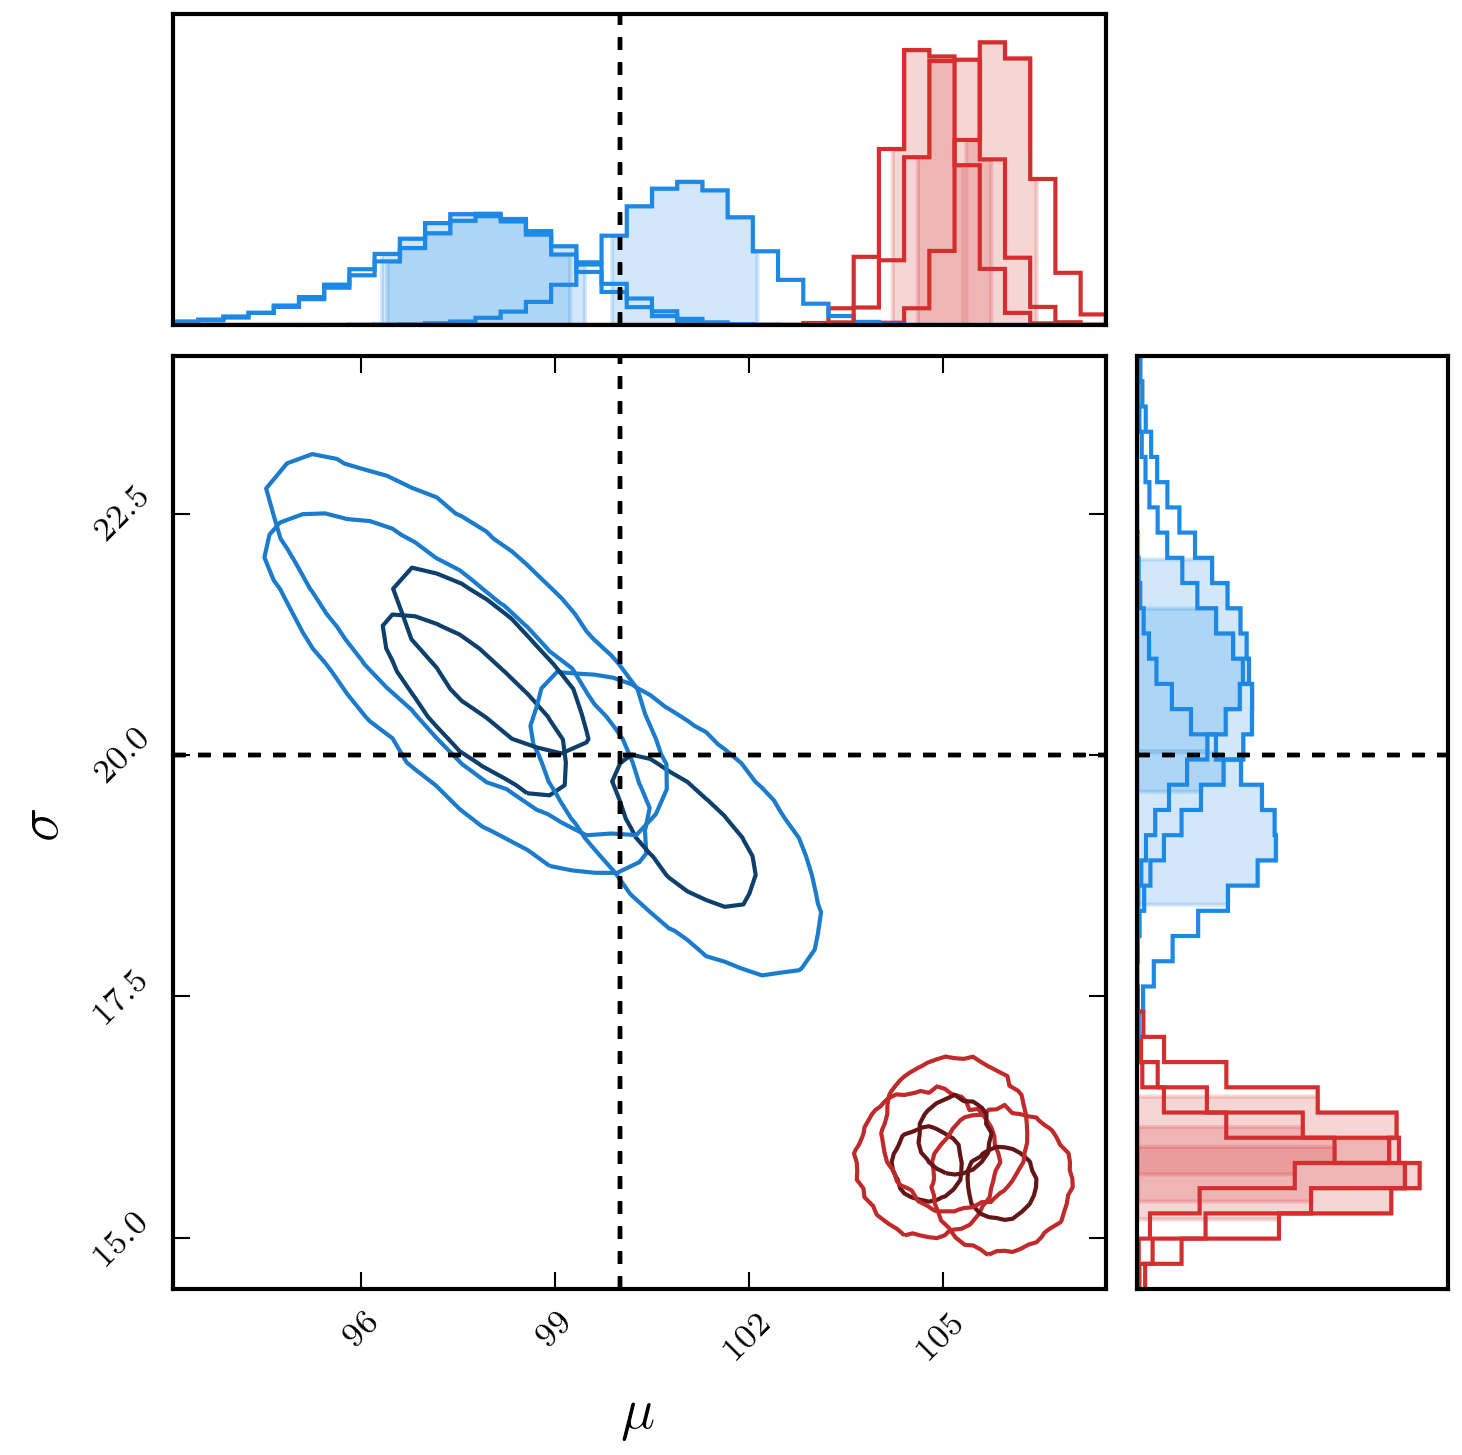
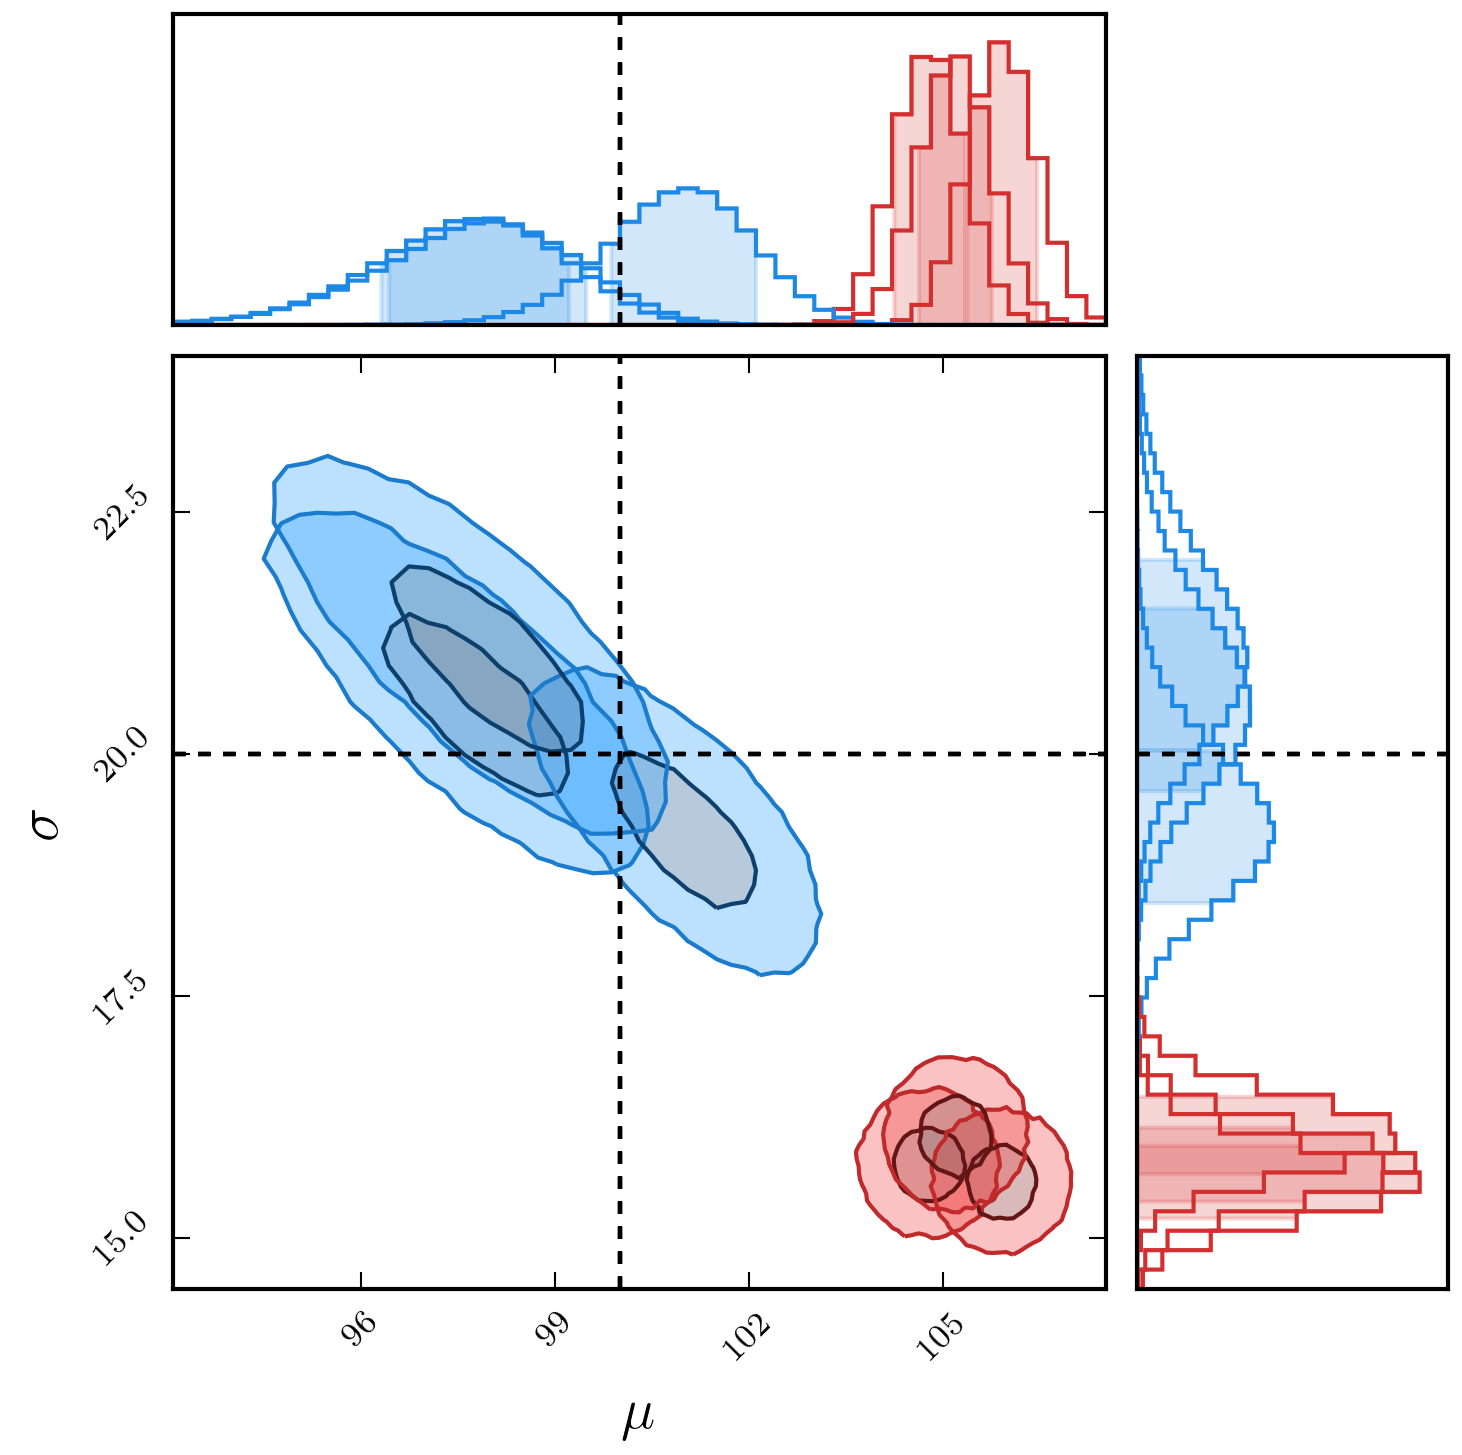
For Alex

diff --git a/dessn/samplers/MetropolisHastings.py b/dessn/samplers/MetropolisHastings.py
@@ -1,0 +1,218 @@
+from dessn.samplers.GenericSampler import Sampler
+import os
+import numpy as np
+from time import time
+import logging
+
+class MetropolisHastings(Sampler):
+    """ Self tuning Metropolis Hastings Sampler
+
+    Parameters
+    ----------
+    log_posterior : function
+        A function that, when given an array of parameters, returns the log posterior of the model.
+    start : function/list[numbers]/np.ndarray
+        The starting position. Either a list/array of numbers, of a function that
+        returns one
+    uid : str, optional
+        A UID string used when saving results. Useful if you want to run many samplers
+        in the same temp directory.
+    num_burn : int, optional
+        The number of burn in steps. TODO: Tune this automatically
+    num_steps : int, optional
+        The number of steps to take after burn in. TODO: Tune this automatically
+    sigma_adjust : int, optional
+        During the burn in, how many steps between adjustment to the step size
+    covariance_adjust : int, optional
+        During the burn in, how many steps between adjustment to the parameter covariance.
+    temp_dir : str, optional
+        The location of a folder to save the results, such as the last position and chain
+    save_dims : int, optional
+        If given, the final chain will contain only the first ``save_dim`` parameters.
+        Useful for discarding many nuisance parameters that would bloat the size of the chain.
+    desiredAcceptRatio : float, optional
+        The desired acceptance ratio
+    """
+    def __init__(self, log_posterior, start, uid="mh", num_burn=10000, num_steps=10000, sigma_adjust=50,
+                 covariance_adjust=1000, temp_dir=None, save_dims=None, save_interval=300,
+                 accept_ratio=0.4):
+        super().__init__(temp_dir)
+        self.logger = logging.getLogger(__name__)
+        self.log_posterior = log_posterior
+        self.start = start
+        self.num_burn = num_burn
+        self.num_steps = num_steps
+        self.sigma_adjust = sigma_adjust
+        self.covariance_adjust = covariance_adjust
+        self.save_dims = save_dims
+        self.save_interval = save_interval
+        self.accept_ratio = accept_ratio
+        self._do_save = temp_dir is not None and save_interval is not None
+        self.space = 3  # log posterior, sigma, weight
+        self.IND_P = 0
+        self.IND_S = 1
+        self.IND_W = 2
+
+        if temp_dir is None:
+            self.position_file = None
+            self.burn_file = None
+            self.chain_file = None
+            self.covariance_file = None
+            self.sigma_file = None
+        else:
+            self.position_file = temp_dir + os.sep + "position_%s.npy" % uid
+            self.burn_file = temp_dir + os.sep + "burn_%s.npy" % uid
+            self.chain_file = temp_dir + os.sep + "chain_%s.npy" % uid
+            self.covariance_file = temp_dir + os.sep + "covariance_%s.npy" % uid
+            self.sigma_file = temp_dir + os.sep + "sigma_%s.npy" % uid
+
+    def get_chain(self):
+        pass
+
+    def fit(self):
+        """ Runs the fit """
+        position, burnin, chain, covariance, sigma = self._load()
+        position = self._ensure_position(position)
+        sigma = self._ensure_sigma(sigma, position)
+
+        if chain is not None:
+            self._do_chain(position, sigma, covariance, chain=chain)
+        else:
+            position, covariance = self._do_burnin(position, burnin, sigma, covariance)
+            self._do_chain(position, covariance)
+
+    def _do_chain(self, position, sigma, covariance, chain=None):
+        dims = self.save_dims if self.save_dims is not None else position.size - self.space
+        size = dims + self.space
+        if chain is None:
+            chain = np.zeros((size, self.num_steps))
+            chain[:, 0] = position[:size]
+
+        current_step = np.where(chain[self.IND_S, :] == 0)[0][0]
+
+        last_save_time = time()
+
+        while current_step < self.num_steps:
+            position, weight = self._get_next_step(position, sigma, covariance)
+            chain[self.IND_W, current_step - 1] += 1
+            chain[:, current_step] = position[:size]
+            current_step += 1
+            if current_step == self.num_steps or \
+                    (self._do_save and time() - last_save_time > self.save_interval):
+                self._save(position, None, chain[:, :current_step], None)
+
+
+    def _do_burnin(self, position, burnin, sigma, covariance):
+
+        if burnin is None:
+            # Initialise burning to all zeros. 2 from posterior and step size
+            burnin = np.zeros((2 + position.size, self.num_burn))
+        elif burnin.shape[1] < self.num_burn:
+            # If we only saved part of the burnin to save size, add the rest in as zeros
+            burnin = np.vstack((burnin,
+                                np.zeros((2 + position.size, self.num_burn - burnin.shape[1]))))
+
+        if covariance is None:
+            covariance = np.identity(position.size)
+
+        current_step = np.where(burnin[self.IND_S, :] == 0)[0][0]
+
+        last_save_time = time()
+
+        while current_step < self.num_burn:
+            # If sigma adjust, adjust
+            if current_step % self.sigma_adjust == 0:
+                burnin[self.IND_S, current_step] = self._adjust_sigma_ratio(burnin, current_step)
+            # If covariance adjust, adjust
+            if current_step % self.covariance_adjust == 0:
+                sigma, covariance = self._adjust_covariance(burnin, current_step)
+
+            # Get next step
+            burnin[:, current_step] = self._get_next_step(position, sigma, covariance)
+
+            current_step += 1
+
+            if current_step == self.num_burn or \
+                    (self._do_save and time() - last_save_time > self.save_interval):
+                self._save(burnin[:, -1], burnin[:, :current_step], None, covariance, sigma)
+                last_save_time = time()
+
+        return burnin[:, -1], covariance
+
+    def _ensure_position(self, position):
+        """ Ensures that the position object, which can be none from loading, is a
+        valid [starting] position.
+        """
+        if position is None:
+            if callable(self.start):
+                position = self.start()
+            else:
+                position = self.start
+            if type(position) == list:
+                position = np.array(position)
+            position = np.concatenate(([-np.inf, 1], position))
+            # Starting log posterior is infinitely unlikely, sigma size of 1 to begin with
+        return position
+
+    def _ensure_sigma(self, sigma, position):
+        if sigma is None:
+            return np.ones(self.position.size - self.space)
+
+    def _adjust_sigma_ratio(self, burnin, index):
+        subsection = burnin[index - self.sigma_adjust:index]
+        actual_ratio = 1 / np.average(subsection[self.IND_W, :])
+
+        sigma_ratio = burnin[self.IND_S, -1]
+        if actual_ratio < self.accept_ratio:
+            sigma_ratio *= 0.9  # TODO: Improve for high dimensionality
+        else:
+            sigma_ratio *= 0.9
+        self.logger.debug("Adjusting sigma: Want %0.2f, got %0.2f. "
+                          "Updating ratio to %0.3f" % (self.accept_ratio, actual_ratio, sigma_ratio))
+        burnin[self.IND_S, index - 1] = sigma_ratio
+
+    def _adjust_covariance(self, burnin, index):
+        subset = burnin[:, int(np.floor(index/2)):index]
+        covariance = np.cov(subset[self.space + 1:, :], fweights=subset[self.IND_W, :])
+        evals, evecs = np.linalg.eig(covariance)
+        sigma = np.sqrt(np.abs(evals)) * 2.3 / np.sqrt(evals.size)
+        burnin[self.IND_S, index - 1] = 0.5
+        return sigma, evecs
+
+    def _propose_point(self, position, sigma, covariance):
+        rotated_params = np.dot(position[self.space + 1], covariance)
+        new = rotated_params + sigma * position
+
+    def _get_next_step(self, position, sigma, covariance):
+        pass
+
+    def _load(self):
+        position = None
+        if os.path.exists(self.position_file):
+            position = np.load(position)
+        burnin = None
+        if os.path.exists(self.burn_file):
+            burnin = np.load(self.burn_file)
+        chain = None
+        if os.path.exists(self.chain_file):
+            chain = np.load(self.chain_file)
+        covariance = None
+        if os.path.exists(self.covariance_file):
+            covariance = np.load(self.covariance_file)
+        if os.path.exists(self.sigma_file):
+            sigma = np.load(self.sigma_file)
+
+        return position, burnin, chain, covariance, sigma
+
+    def _save(self, position, burnin, chain, covariance, sigma):
+        if position is not None:
+            np.save(self.position_file, position)
+        if burnin is not None:
+            np.save(self.burn_file, burnin)
+        if chain is not None:
+            np.save(self.chain_file, chain)
+        if covariance is not None:
+            np.save(self.covariance_file, covariance)
+        if sigma is not None:
+            np.save(self.sigma_file, sigma)
+

diff --git a/dessn/models/test_efficiency_3/run_stan.py b/dessn/models/test_efficiency_3/run_stan.py
@@ -1,0 +1,58 @@
+import numpy as np
+import pickle
+import os
+
+stan_code = """
+
+data {
+  real noise;          // measurement noise
+  real minflux;        // minimum flux
+
+  int N;               // Number of supernovae
+  vector<lower=minflux>[N] d;          // data
+}
+
+parameters {
+  real<lower=0, upper=200> mu;
+  real<lower=0, upper=100> sigma;
+  vector<lower=minflux, upper=200>[N] s;
+}
+
+model {
+  for (n in 1:N){
+    s[n] ~ normal(mu, sigma);
+    d[n] ~ normal(s[n], noise) T[minflux,];
+  }
+}
+"""
+
+
+def get_data(seed=5):
+    np.random.seed(seed=seed)
+    mean = 100.0
+    std = 20.0
+    alpha = 80
+    n = 1000
+
+    actual = np.random.normal(loc=mean, scale=std, size=n)
+
+    errors = 5
+    observed = actual + np.random.normal(size=n) * errors
+
+    mask = observed > alpha
+    print(mask.sum(), n, observed[mask].mean())
+
+    return mean, std, observed[mask], errors, alpha, mask.sum()
+
+
+if __name__ == "__main__":
+    import pystan
+
+    mean, std, d, e, minFlux, nsne = get_data()
+    data = {'N': nsne, 'd': d, 'noise': e, 'minflux': minFlux}
+    sm = pystan.StanModel(model_code=stan_code)
+    fit = sm.sampling(data=data, iter=5000, chains=4)
+    dir_name = os.path.dirname(__file__)
+    t = os.path.abspath(dir_name + "/output/temp.pkl")
+    with open(t, 'wb') as output:
+        pickle.dump(fit.extract(), output)

diff --git a/dessn/models/test_efficiency_2/efficiency_model_2.py b/dessn/models/test_efficiency_2/efficiency_model_2.py
@@ -104,7 +104,7 @@ class EfficiencyModelCorrected(Model):
 
 
 def get_data(seed=5):
-    np.random.seed(seed)
+    np.random.seed(seed=seed)
     mean = 100.0
     cut = 80
     n = 1000
@@ -135,7 +135,7 @@ if __name__ == "__main__":
         pgm_file = os.path.abspath(dir_name + "/output/pgm.png")
         fig = model_cor.get_pgm(pgm_file)
 
-        sampler = EnsembleSampler(num_steps=5000, num_burn=1000, temp_dir=t % "no%d" % i)
+        sampler = EnsembleSampler(num_steps=10000, num_burn=1000, temp_dir=t % "no%d" % i)
         chain = model_un.fit(sampler)
         c.add_chain(chain.chains[0], name=chain.names[0], parameters=chain.default_parameters)
 
@@ -145,6 +145,7 @@ if __name__ == "__main__":
 
     c.configure_bar(shade=True)
     c.configure_general(colours=colours)
+    c.configure_contour(contourf=True, contourf_alpha=0.3)
     # c.plot_walks(truth=[mean, sigma], filename=walk_file % "no", chain=0)
     # c.plot_walks(truth=[mean, sigma], filename=walk_file % "cor", chain=1)
     c.plot(filename=plot_file, figsize=(5, 5), truth=[mean, sigma], legend=False)

diff --git a/dessn/models/test_efficiency_3/efficiency_model_3.py b/dessn/models/test_efficiency_3/efficiency_model_3.py
@@ -145,7 +145,7 @@ class EfficiencyModelCorrected(Model):
 
 
 def get_data(seed=5):
-    np.random.seed(seed)
+    np.random.seed(seed=seed)
     mean = 100.0
     std = 20.0
     alpha = 3.5
@@ -153,7 +153,7 @@ def get_data(seed=5):
 
     actual = np.random.normal(loc=mean, scale=std, size=n)
 
-    errors = np.ones(actual.shape) * mean / 5
+    errors = np.ones(actual.shape) * 20
     observed = actual + np.random.normal(size=n) * errors
 
     ston = observed / errors
@@ -192,7 +192,8 @@ if __name__ == "__main__":
 
     c.configure_bar(shade=True)
     c.configure_general(bins=0.7, colours=colours)
-    c.configure_contour(sigmas=[0,0.01,1])
+    c.configure_contour(sigmas=[0, 0.01, 1], contourf=True, contourf_alpha=0.3)
+
     # c.plot_walks(filename=walk_file % "no", chain=1, truth=[mean, std])
     # c.plot_walks(filename=walk_file % "cor", chain=0, truth=[mean, std])
     c.plot(filename=plot_file, figsize=(8, 8), truth=[mean, std])

diff --git a/dessn/models/test_efficiency_3/load_stan_results.py b/dessn/models/test_efficiency_3/load_stan_results.py
@@ -1,0 +1,19 @@
+import numpy as np
+from dessn.chain.chain import ChainConsumer
+import pickle
+import os
+from dessn.models.test_efficiency_3.run_stan import get_data
+
+m, s, d, e, a, n = get_data()
+
+dir_name = os.path.dirname(__file__)
+t = os.path.abspath(dir_name + "/output/temp.pkl")
+with open(t, 'rb') as output:
+    chain = pickle.load(output)
+    chain = np.vstack((chain["mu"][1000:], chain["sigma"][1000:],
+                       chain["s"][1000:, 0], chain["s"][1000:, 1], chain["s"][1000:, 2],
+                       chain["s"][1000:, 3], chain["s"][1000:, 4], chain["s"][1000:, 5]))
+
+c = ChainConsumer()
+c.add_chain(chain.T, parameters=[r"$\mu$", r"$\sigma$", "s1", "s2", "s3", "s4", "s5", 's6'])
+c.plot(display=True, truth=[100, 20] + d[:6].tolist())

diff --git a/dessn/samplers/GenericSampler.py b/dessn/samplers/GenericSampler.py
@@ -1,0 +1,22 @@
+import os
+
+
+class Sampler(object):
+    """ A generic sampler
+
+    Parameters
+    ----------
+    temp_dir : str, optional
+        The directory in which to store results, such as the output chains
+    """
+    def __init__(self, temp_dir=None):
+        self.temp_dir = temp_dir
+        if self.temp_dir is not None:
+            if not os.path.exists(self.temp_dir):
+                os.makedirs(self.temp_dir)
+
+    def get_chain(self):
+        raise NotImplementedError()
+
+    def fit(self):
+        raise NotImplementedError()

diff --git a/dessn/models/test_efficiency_1/efficiency_model_1.py b/dessn/models/test_efficiency_1/efficiency_model_1.py
@@ -89,7 +89,7 @@ class EfficiencyModelCorrected(Model):
 
 
 def get_data(seed=5):
-    np.random.seed(seed)
+    np.random.seed(seed=seed)
     mean = 100.0
     alpha = 4
     n = 1000
